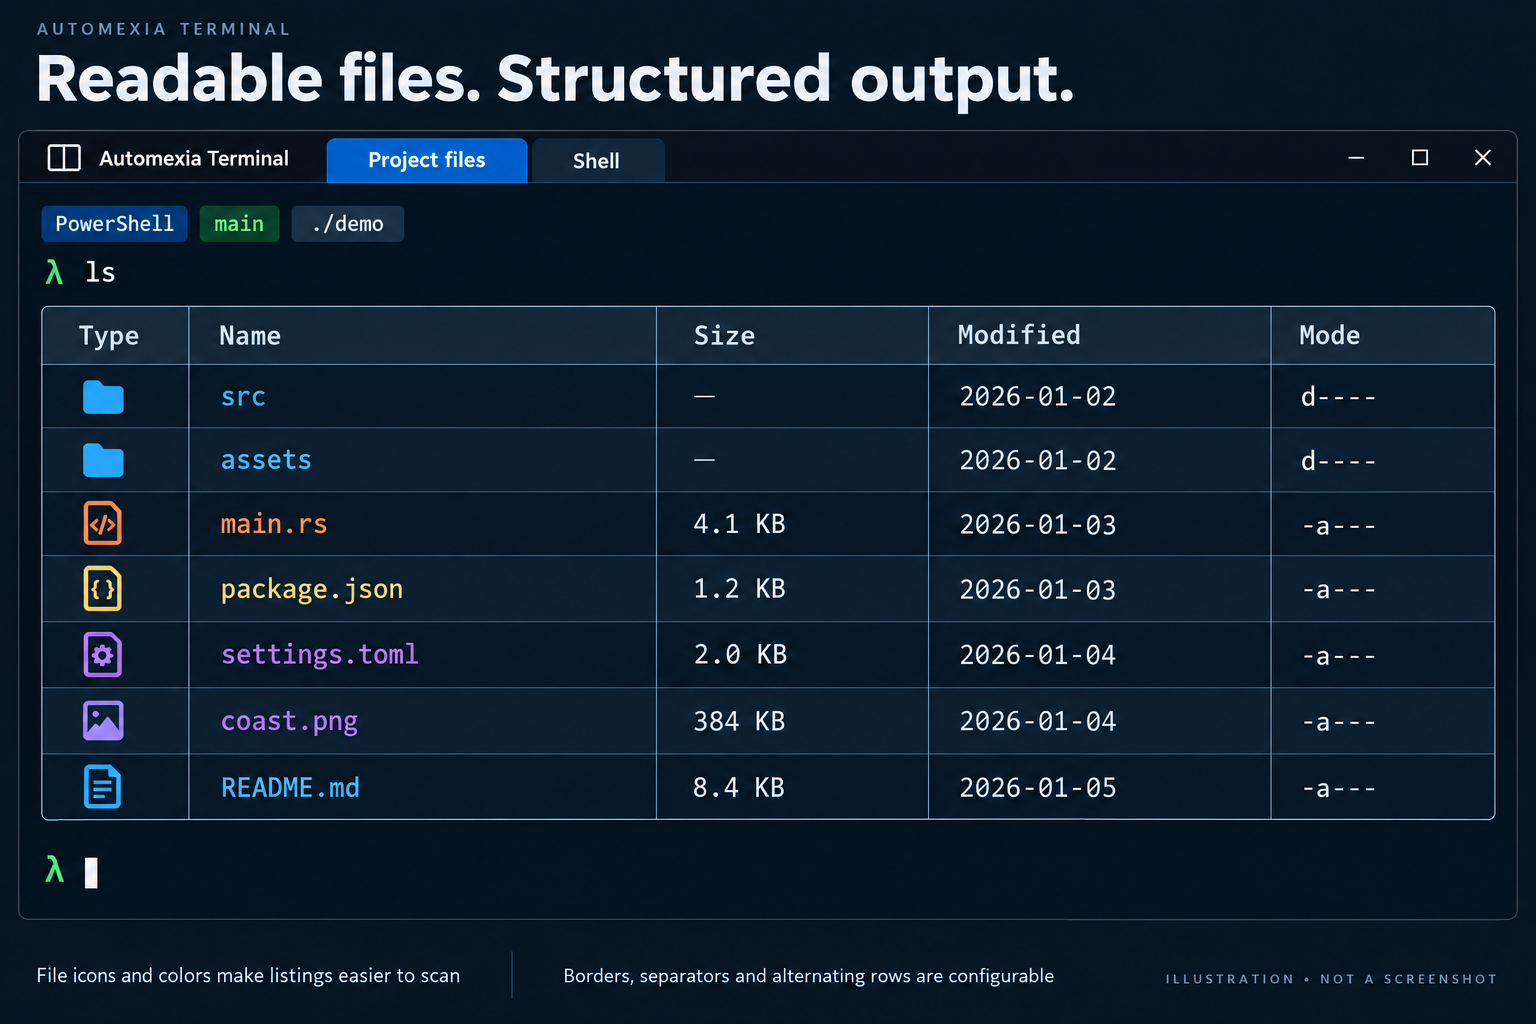
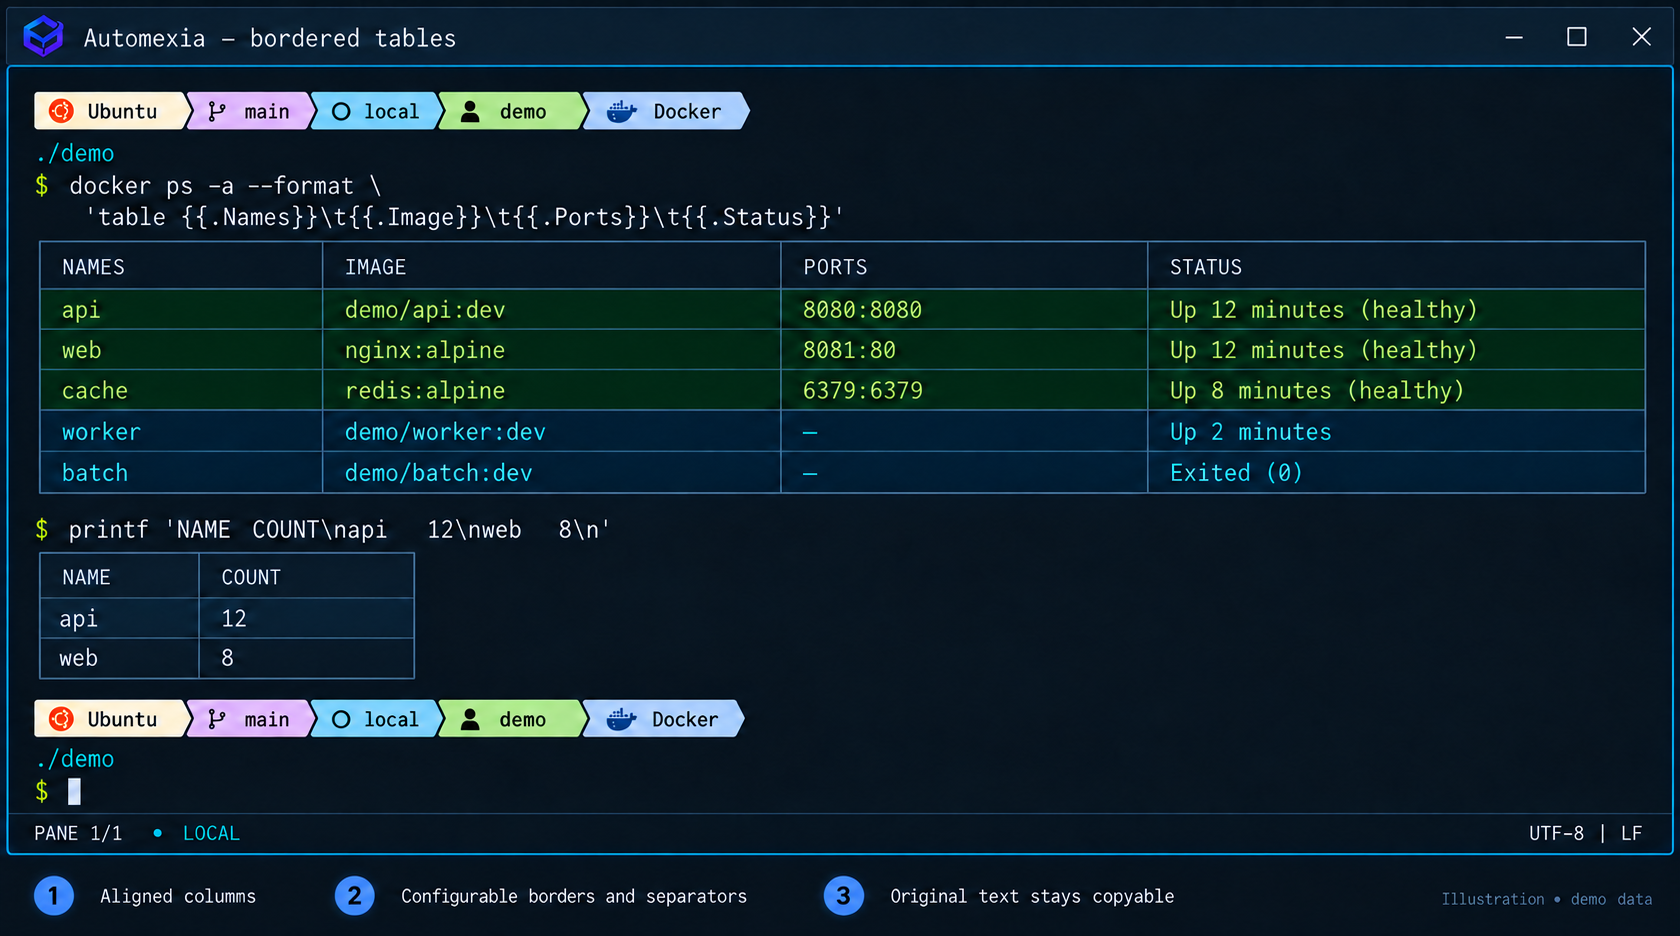
docs(readme): align feature gallery with landing page reference

diff --git a/README.md b/README.md
@@ -53,43 +53,66 @@ provides the terminal workspace around them.
 
 ## Feature gallery
 
-These **AI-generated illustrations** explain features documented in the current
-source. They are approximate views, **not screenshots or native test evidence**;
-layout, icons, colors, and availability can vary with configuration and build.
-All terminal output and filenames below are fictional examples.
+These **AI-generated feature illustrations** follow the visual style of the
+[Automexia landing-page reference](https://www.automexia.com/automexia-terminal-hero-native-v9.png):
+compact terminal text, arrow-shaped prompt tags, thin pane borders, and readable
+output colors. They are approximate views, **not native screenshots or test
+evidence**. All commands, filenames, and output use fictional demo data; exact
+layout and availability depend on configuration and build.
 
-### Global tabs, split panes, and pane-local tabs
+### Split panes
 
-![Illustration of global workspace tabs above three terminal panes, with separate Shell and Tests tabs inside the active pane.](assets/gallery/panes-and-tabs.png)
+![Reference-based illustration of four terminal panes showing files, tests, containers, and logs, with a cyan border around the focused pane.](assets/gallery/panes-and-tabs.png)
 
-Group work with top-level tabs, keep commands visible in split panes, and switch
-between pane-local tabs without giving up the surrounding layout. Each session
-has its own PTY; dividers and a focus border make the active pane visible.
+Keep files, tests, container output, and logs visible together. Each session has
+its own PTY, the focus border identifies the pane receiving keyboard input, and
+resizable dividers let you give a busy session more room. The example uses one
+large pane beside three smaller panes.
 See [Workspaces](docs/guide/terminal-experience.md) and [Keyboard](docs/KEYBOARD.md).
+
+### Global tabs and pane-local tabs
+
+![Reference-based illustration of global Development, Operations, and Assets tabs above two panes, each with its own local tabs.](assets/gallery/tabs.png)
+
+Top-level tabs organize work within the window. Pane-local tabs switch the
+session shown in one pane while the surrounding panes stay in place. The example
+keeps **Shell / Tests** on the left and **Logs / Build** on the right, making the
+two levels of navigation visible. See [Workspaces](docs/user-guide/workspace.md).
 
 ### Local image preview
 
-![Illustration of a pinned coast.png preview over a terminal image listing, with arrow-key navigation and Escape to close.](assets/gallery/image-preview.png)
+![Reference-based illustration of a selected landscape.png path and a pinned mountain-lake image preview inside the terminal pane.](assets/gallery/image-preview.png)
 
 Hover a supported local image path for a quick look, or click to pin the preview.
 While pinned, use the arrow keys to browse visible image paths and Escape to
-close. Keyboard users can select a path and invoke **Preview Selected Image**
-from the command palette. See [Image previews](docs/IMAGE-PREVIEWS.md).
+close. The preview keeps the image's aspect ratio and stays inside its pane.
+Keyboard users can select a path and invoke **Preview Selected Image** from the
+command palette, or use `Ctrl+Alt+I` on Windows/Linux and `Cmd+Alt+I` on macOS.
+See [Image previews](docs/IMAGE-PREVIEWS.md).
 
-### File icons, colors, and bordered tables
+### Bordered tables
 
-![Illustration of a file listing with distinct folder, source, configuration, image, and document icons inside a bordered table with alternating row backgrounds.](assets/gallery/files-and-tables.png)
+![Reference-based illustration of Docker output and a small generic output table with aligned columns, outer borders, and row separators.](assets/gallery/files-and-tables.png)
 
-Enhanced interactive listings make file types easier to scan with icons and
-colors. Recognized tables can have an outer frame, row and column separators,
-and alternating backgrounds. Configure these in **Inline tables**; decoration
-does not replace the underlying terminal text or native pipeline objects.
-See [Shell integration](docs/SHELL-INTEGRATION.md#icon-aware-listings) and
-[Customization](docs/user-guide/customization.md).
+Recognized header tables gain aligned, bordered cells. **Inline tables** controls
+the outer frame, row and column separators, border style and weight, and optional
+alternating backgrounds. The illustration shows container output and a small
+generic table; this is presentation over terminal text, and copied output keeps
+the underlying text. See [Customization](docs/user-guide/customization.md).
+
+### File icons and colors
+
+![Reference-based illustration of a terminal file listing with cyan folders and distinct source-code, configuration, document, image, archive, and log glyphs.](assets/gallery/file-icons.png)
+
+Enhanced interactive listings use compact glyphs and colors to make folders and
+file types easier to distinguish. Filenames remain ordinary terminal text for
+selection and copying. Native pipeline data stays intact; the decoration belongs
+to the interactive display. See
+[Shell integration](docs/SHELL-INTEGRATION.md#icon-aware-listings).
 
 ### Kubernetes status colors
 
-![Illustration of fictional Kubernetes pod rows: fully ready Running in green, partial Running and Pending in amber, Completed in cyan, and CrashLoopBackOff in red.](assets/gallery/kubernetes-colors.png)
+![Reference-based illustration of fully colored Kubernetes table rows: ready Running in green, partial Running and Pending in amber, Completed in cyan, and CrashLoopBackOff in red, above severity-colored logs.](assets/gallery/kubernetes-colors.png)
 
 Recognized plain-text output distinguishes healthy readiness, partial or waiting
 states, completed jobs, and failures. Both the status and readiness matter:
